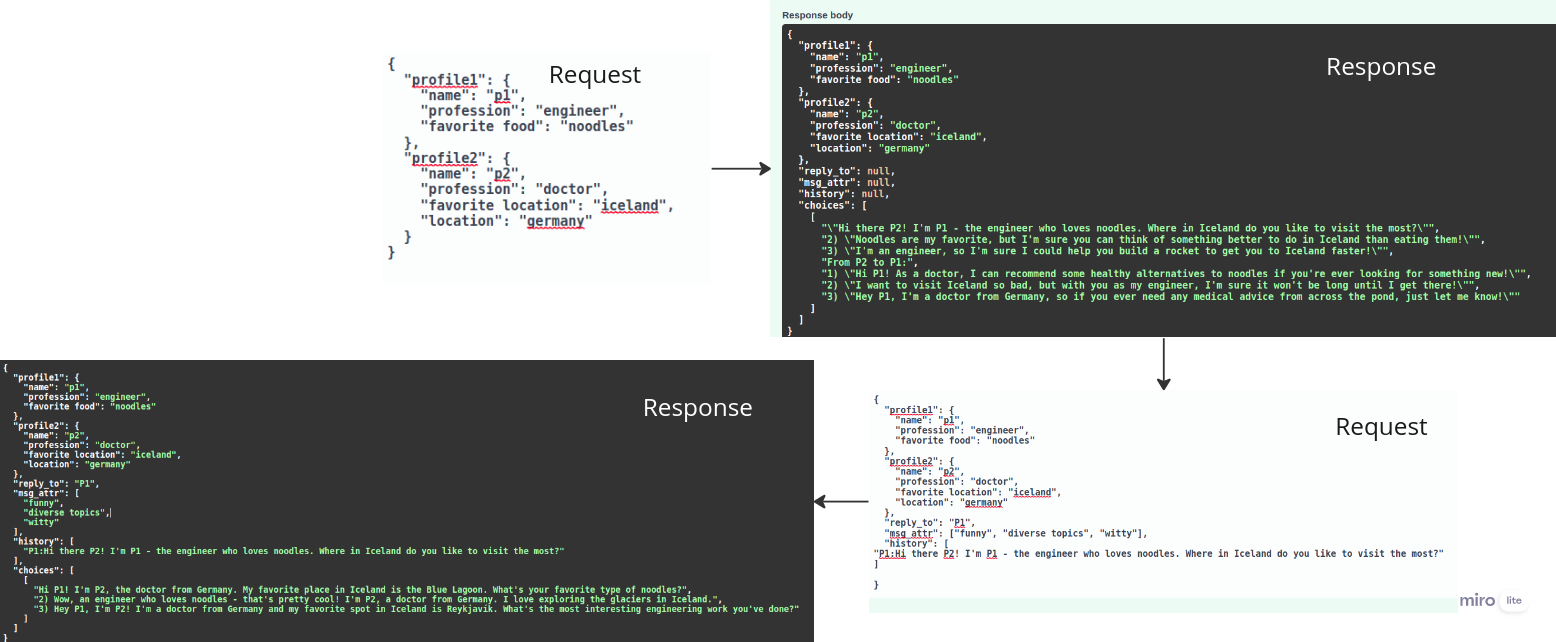
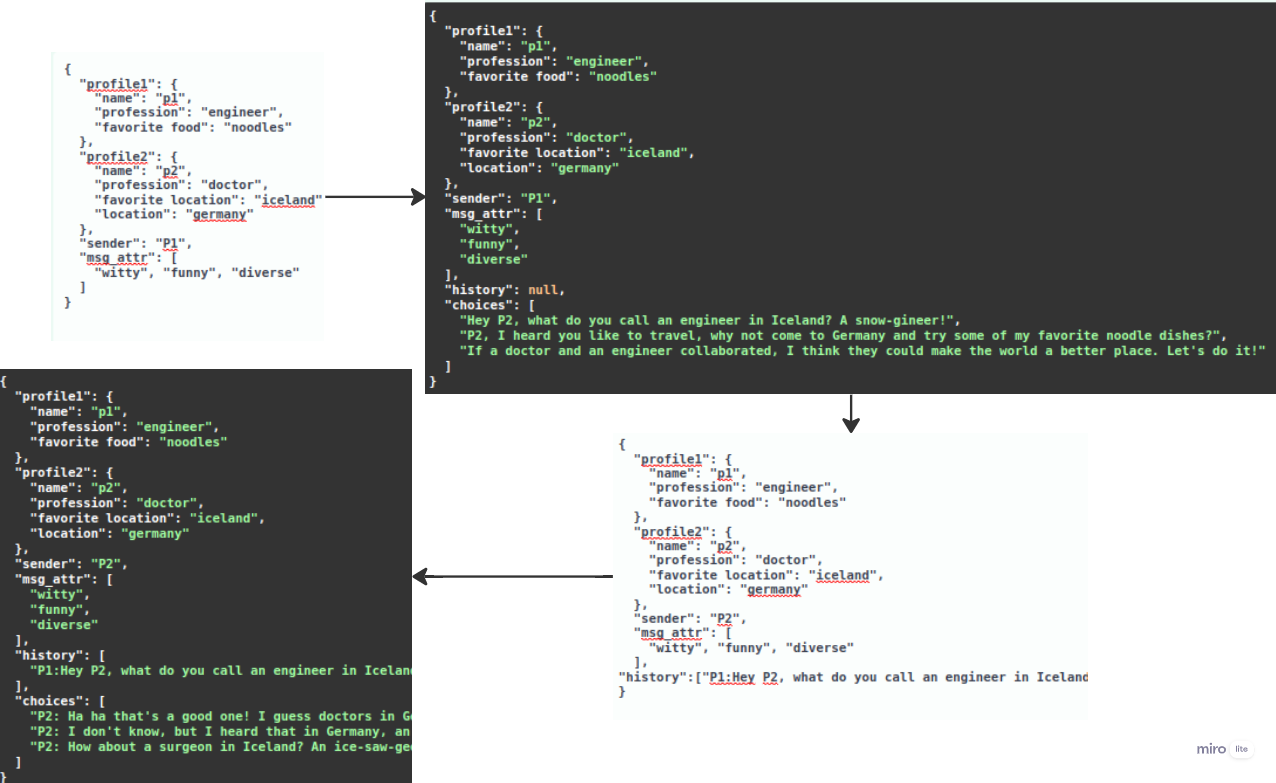
cleaned choices, simplified sender specification details, restricted responses to only 3 at a time

diff --git a/prompt_service/prompt_constructor.py b/prompt_service/prompt_constructor.py
@@ -1,7 +1,7 @@
 from typing import List
 
 class PromptConstructor:
-    def __init__(self, prof1: dict, prof2: dict):
+    def __init__(self, prof1: dict, prof2: dict, sender: str, msg_attr: str):
         '''
         history: ['P1:msg1', 'P2:msg2'..]
         msg_attr: ['witty', 'funny'...]
@@ -11,8 +11,10 @@ class PromptConstructor:
         self.prof2 = prof2
         self.prompt = "P1, P2 are two people."
         self.history = None
-        self.msg_attr = ['witty', 'funny']
-        self.reply_to = None
+        self.msg_attr = msg_attr
+        self.sender = sender
+        if not self.sender:
+            raise Exception("Please specify sender")
 
     def _add_profiles(self):
         self.prompt += ('\nP1 has the profile:\n') +\
@@ -24,27 +26,23 @@ class PromptConstructor:
         self.prompt += ("\n\nP1 and P2's conversations so far:\n") +\
                          ('\n'.join(self.history))
     
-    def _add_msg_requirement(self):
-        _from = 'P1' if self.reply_to=='P2' else 'P2'
-        self.prompt += (f'\n\nSuggest 3 messages for {_from} in response to {self.reply_to} which has to be ') +\
+    def _add_sender_and_receiver_info(self):
+        self.prompt += (f"\n\nSuggest 3 messages for {self.sender} in response to {'P1' if self.sender=='P2' else 'P1'} which has to be ") +\
                         (', '.join(self.msg_attr)) +\
                         ':\n1) '
     
-    def update_prompt(self, history: List[str]=None, msg_attr: List[str]=None, reply_to: str=None):
+    def update_prompt(self, history: List[str]=None, msg_attr: List[str]=None, sender: str=None):
         self.history = history
         self.msg_attr = msg_attr
-        self.reply_to = reply_to
+        self.sender = sender
     
     def construct(self):
         self._add_profiles()
         if self.history:
             self._add_history()
-            self._add_msg_requirement()
+            self._add_sender_and_receiver_info()
         else:
-            #initial message
-            self
-            self.prompt += "\n\nSuggest 3 messages for P1 and 3 messages for P2 which has to be: "+\
+            self.prompt += f"\n\nSuggest 3 messages for {self.sender} which has to be: "+\
                 (", ".join(self.msg_attr)) +\
-                ".\nFrom P1 to P2:" +\
-                "\n1) "
+                ". \n1) "
         return self.prompt

diff --git a/app.py b/app.py
@@ -10,12 +10,12 @@ app = FastAPI()
 class MsgRequest(BaseModel):
     profile1: dict={"name":"p1", "profession":"engineer", "favorite food":"noodles"}
     profile2: dict={"name":"p2", "profession":"doctor", "favorite location":"iceland", "location": "germany"}
-    reply_to: Union[str, None] = None
-    msg_attr: Union[List[str], None] = None
+    sender: Union[str, None] = None
+    msg_attr: List[str] = ['witty']
     history: Union[List[str], None] = None
 
 class MsgResponse(MsgRequest):
-    choices: Union[List[List[str]], None] = None
+    choices: Union[List[str], None] = None
 
 @app.get("/")
 def read_root():
@@ -28,7 +28,7 @@ def get_pickup_line(msg_req: MsgRequest) -> MsgResponse:
         {\n
             "profile1": {"name":"p1", "profession":"engineer", "favorite food":"noodles"},\n
             "profile2": {"name":"p1", "profession":"engineer", "favorite food":"noodles"},\n
-            "reply_to": "P2",\n
+            "sender": "P1",\n
             "msg_attr": [\n
                 "witty",\n
                 "funny",\n
@@ -40,11 +40,17 @@ def get_pickup_line(msg_req: MsgRequest) -> MsgResponse:
             ]\n
         }\n
     """
-    prompt_constructor=PromptConstructor(prof1=msg_req.profile1, prof2=msg_req.profile2)
+    if not msg_req.msg_attr:
+        raise Exception("Please specify message attributes!")
+    if not msg_req.sender:
+        raise Exception("Please specify sender!")
+    prompt_constructor=PromptConstructor(prof1=msg_req.profile1, 
+                                        prof2=msg_req.profile2,
+                                        sender=msg_req.sender,
+                                        msg_attr=msg_req.msg_attr)
     if msg_req.history:
         prompt_constructor.update_prompt(history=msg_req.history,
-                                         msg_attr=msg_req.msg_attr,
-                                        reply_to=msg_req.reply_to)
+                                         msg_attr=msg_req.msg_attr)
     pickup = PickupLineGenerator()
     msgs = pickup.generate_messages(prompt_constructor=prompt_constructor)
     msg_resp = MsgResponse(**msg_req.dict())

diff --git a/prompt_service/pickup_line_generator.py b/prompt_service/pickup_line_generator.py
@@ -1,4 +1,5 @@
 import os
+import re
 import openai
 import yaml
 from prompt_service.prompt_constructor import PromptConstructor
@@ -12,18 +13,17 @@ class PickupLineGenerator:
       if not resps:
           return []
       res = []
-      for resp in resps.get('choices', []):
-          text = resp.get('text')
-          options = text.split('\n')
-          res.append([f"""{option}""".strip() for option in options if len(option)])
+      choices = resps.get('choices', [])
+      if len(choices):
+        text = choices[0].get('text', '')
+        options = text.split('\n')
+        res = [f"{re.sub('^[0-9)]+', '', option)}".strip() for option in options if len(option)]
       return res
 
   def generate_messages(self, prompt_constructor: PromptConstructor):
     response = openai.Completion.create(
       model= self.config.get("model"),
-      prompt=[
-        prompt_constructor.construct()
-      ],
+      prompt=prompt_constructor.construct(),
       temperature=0.73,
       max_tokens=256,
       top_p=1,
@@ -43,16 +43,16 @@ if __name__=="__main__":
         prof2={'name':'p2', 
         'profession':'teacher', 
         'favorite food':'vada pav', 
-        'location': 'india'}
+        'location': 'india'},
+        sender='P1'
     )
   history= [
-  "P2:Hey P1, what's the engineering equivalent of vada pav?",
-  "P1: I think it's called Vada Pavtronics. Sounds cool, right?"
+  "P1:Hey P2, looks like you are a teacher who loves Vada Pav and I'm an engineer who loves noodles! Let's swap recipes!"
   ]
-  reply_to = 'P1'
+  sender = 'P2'
   msg_attr = ['witty', 'funny', 'curious to know the other']
-  # prompt_constructor.update_prompt(history=history, msg_attr=msg_attr, reply_to=reply_to)
-  # print(prompt_constructor.construct())
+  # prompt_constructor.update_prompt(history=history, sender=sender, msg_attr=msg_attr)
+  print(prompt_constructor.construct())
   pickup = PickupLineGenerator()
   msgs = pickup.generate_messages(prompt_constructor=prompt_constructor)
   print(msgs)
